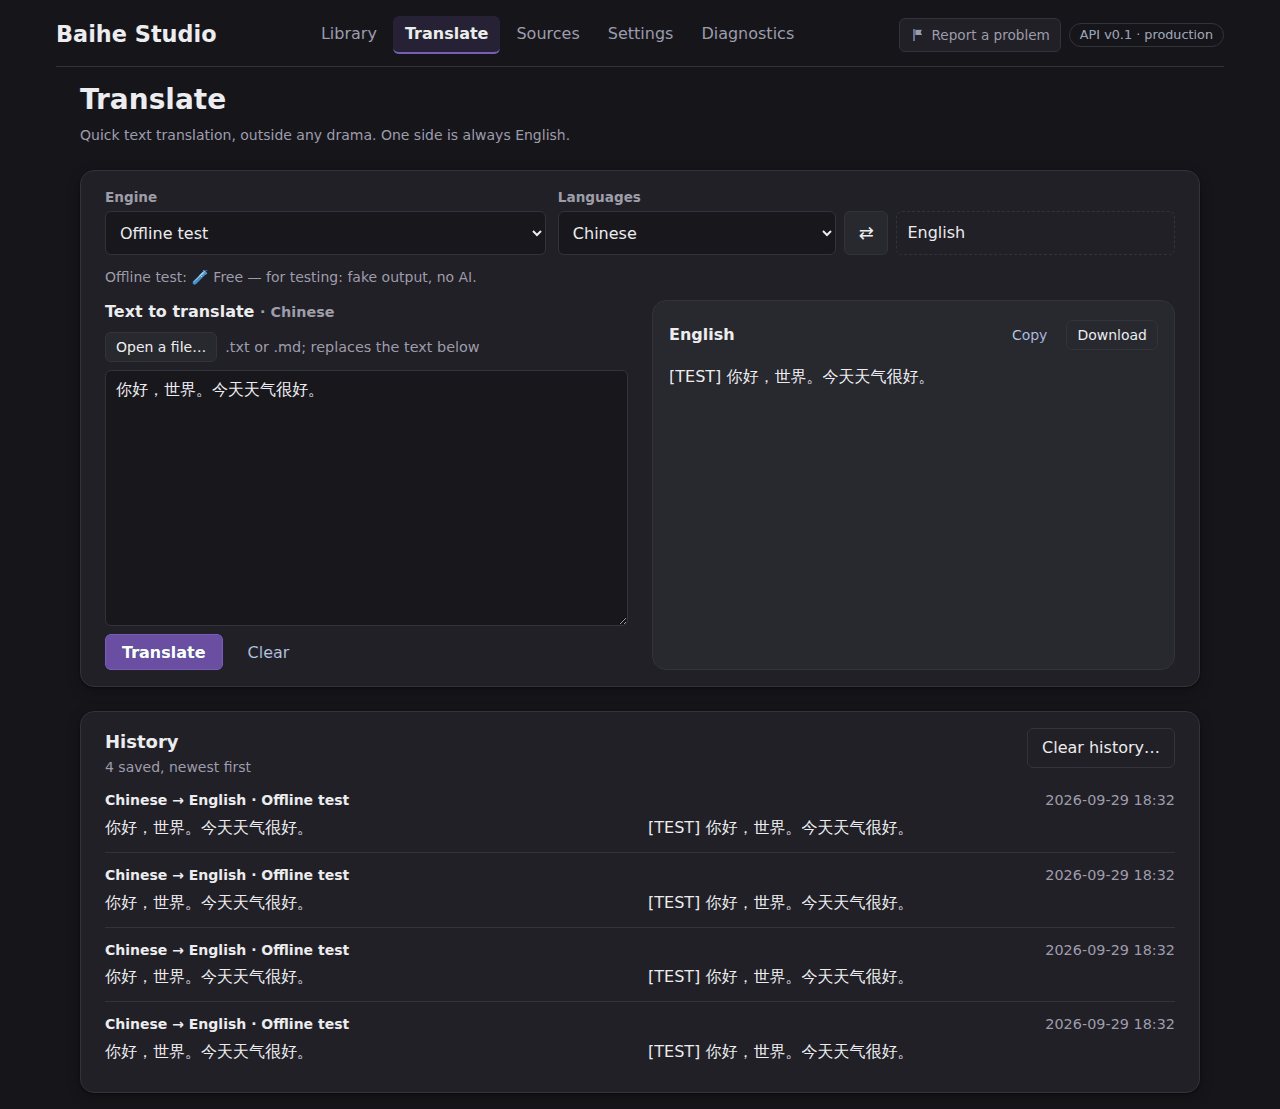
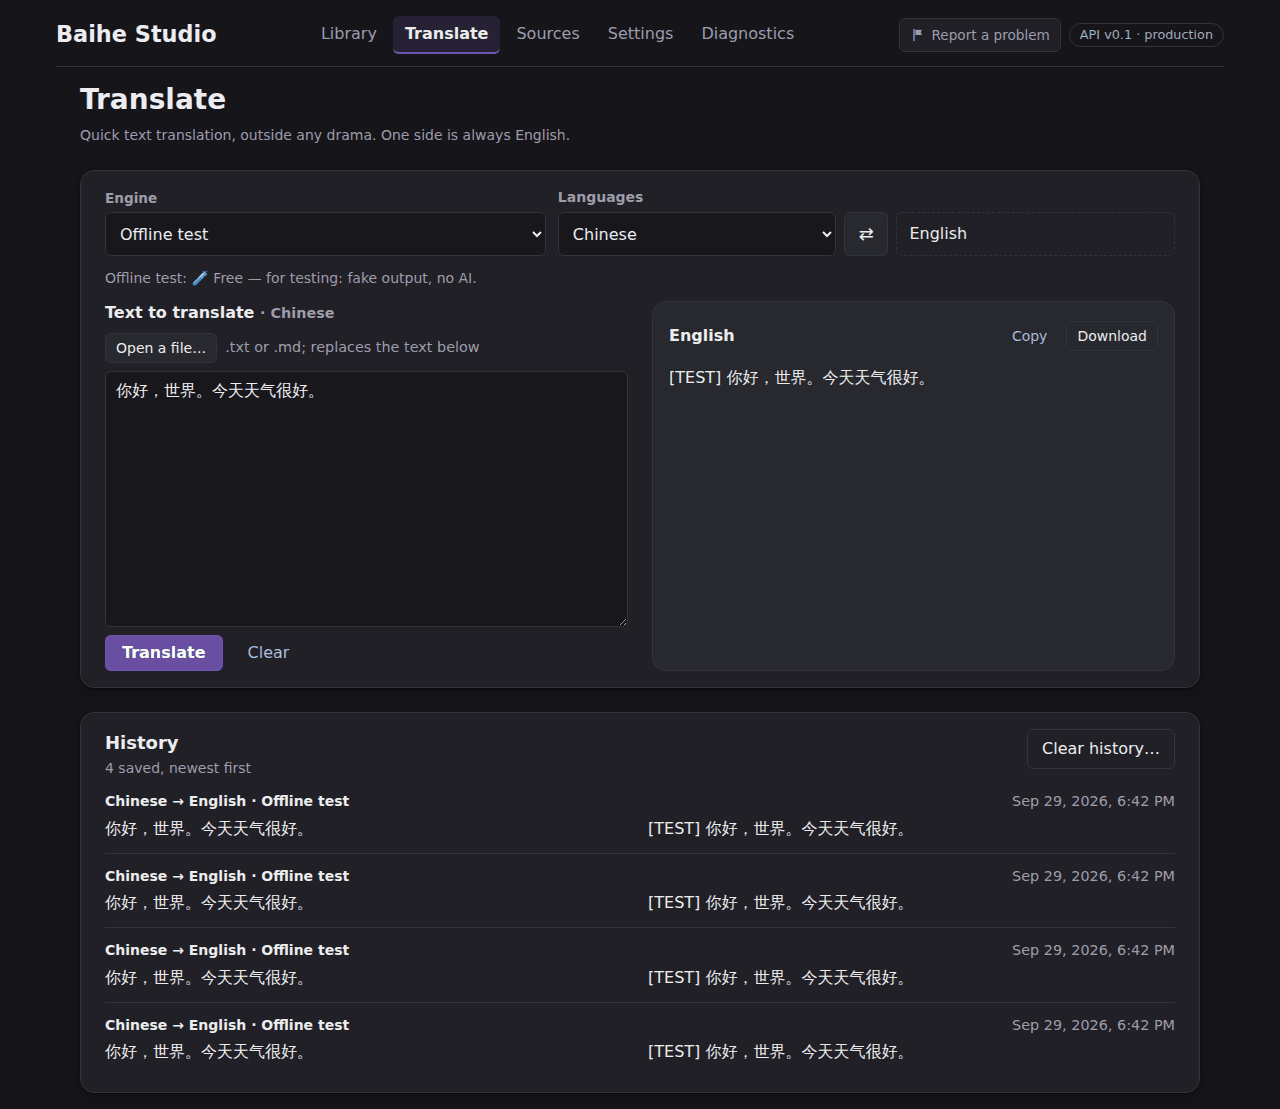
Translate page: review fixes (local history times, honest count past 50, dead CSS, kit tokens, copy live region)
Claude-Session: https://claude.ai/code/session_017Wz1nC44vFRBaWhjdfFhYz

diff --git a/frontend/src/pages/Translate.tsx b/frontend/src/pages/Translate.tsx
@@ -19,8 +19,10 @@ import { usePcOnly } from '../hooks/usePcOnly'
 import { usePersistedState } from '../hooks/usePersistedState'
 import { DownloadResultButton, OpenFileField } from './TranslateFileControls'
 import {
+  HISTORY_LIMIT,
   HISTORY_PREVIEW,
   engineOptionLabel,
+  historyCount,
   historyLabel,
   historyTime,
   isDirection,
@@ -55,7 +57,7 @@ export default function TranslatePage() {
   const [clearError, setClearError] = useState<unknown>(null)
   const pc = usePcOnly()
 
-  const refreshHistory = useCallback(() => translateApi.history().then(setHistory, setError), [])
+  const refreshHistory = useCallback(() => translateApi.history(HISTORY_LIMIT).then(setHistory, setError), [])
 
   useEffect(() => {
     translateApi.engines().then(setEngines, setError)
@@ -271,11 +273,9 @@ export default function TranslatePage() {
                   {loading ? 'Translating…' : 'The translation appears here.'}
                 </p>
               )}
-              {copied === 'failed' && (
-                <p className="translate-warning" role="status">
-                  Couldn't copy. Select the text and copy it instead.
-                </p>
-              )}
+              <p className={copied === 'failed' ? 'translate-warning' : 'visually-hidden'} role="status">
+                {copied === 'ok' ? 'Copied to the clipboard.' : copied === 'failed' ? "Couldn't copy. Select the text and copy it instead." : ''}
+              </p>
             </div>
           </div>
         </form>
@@ -284,7 +284,7 @@ export default function TranslatePage() {
       <Card
         className="translate-history-card"
         title="History"
-        meta={history.length > 0 ? `${history.length} saved, newest first` : undefined}
+        meta={history.length > 0 ? historyCount(history.length, HISTORY_LIMIT) : undefined}
         actions={
           history.length > 0 &&
           (pc === 'remote' ? (
@@ -328,7 +328,7 @@ export default function TranslatePage() {
                   aria-expanded={showAll}
                   onClick={() => setShowAll(!showAll)}
                 >
-                  {showAll ? 'Show fewer' : `Show all (${history.length})`}
+                  {showAll ? 'Show fewer' : `Show ${history.length >= HISTORY_LIMIT ? 'last' : 'all'} ${history.length}`}
                 </button>
               </div>
             )}

diff --git a/frontend/src/pages/translatePage.ts b/frontend/src/pages/translatePage.ts
@@ -7,8 +7,9 @@ import { NON_ENGLISH_LANGUAGES, engineShortName, usableEngines } from '../api/tr
 import { humanize } from '../components/labels'
 import type { TranslateDirection, TranslateEngine, TranslateHistoryEntry } from '../types/translate'
 
-/** History rows shown before "Show all". */
+/** History rows shown before "Show all", and how many are fetched. */
 export const HISTORY_PREVIEW = 5
+export const HISTORY_LIMIT = 50
 
 /** Picker text: the short name, plus "(no key)" when the engine can't run yet. */
 export function engineOptionLabel(engine: Pick<TranslateEngine, 'name' | 'key_configured'>): string {
@@ -55,9 +56,21 @@ export function historyLabel(h: Pick<TranslateHistoryEntry, 'source_language' | 
   return `${src} → ${tgt} · ${engineShortName({ name: h.engine })}`
 }
 
-/** "2026-09-29T18:31:05" or "2026-09-29 18:31:05" -> "2026-09-29 18:31". */
-export function historyTime(createdAt: string): string {
-  return createdAt.replace('T', ' ').slice(0, 16)
+/**
+ * The API stores naive UTC timestamps (datetime.utcnow().isoformat()), so a
+ * value without a zone is read as UTC and shown in the viewer's local time.
+ * Unparseable values are shown as they came.
+ */
+export function historyTime(createdAt: string, locale?: string): string {
+  const iso = createdAt.trim().replace(' ', 'T')
+  const d = new Date(/[zZ]|[+-]\d\d:?\d\d$/.test(iso) ? iso : `${iso}Z`)
+  if (Number.isNaN(d.getTime())) return createdAt
+  return d.toLocaleString(locale, { dateStyle: 'medium', timeStyle: 'short' })
+}
+
+/** "50 saved" is only true below the fetch limit; at the limit say "last N". */
+export function historyCount(count: number, limit: number): string {
+  return count >= limit ? `Last ${count}, newest first` : `${count} saved, newest first`
 }
 
 /** The rows to render: the first HISTORY_PREVIEW unless "Show all" is on. */

diff --git a/frontend/src/pages/translate.css b/frontend/src/pages/translate.css
@@ -10,15 +10,15 @@
 .translate-toolbar { display: grid; grid-template-columns: repeat(2, minmax(0, 1fr)); gap: var(--space-3); align-items: end; }
 .translate-toolbar .translate-langs { grid-column: 1 / -1; }
 .translate-toolbar:not(.has-model) .translate-engine { grid-column: 1 / -1; }
-.translate-langs { display: grid; gap: var(--space-1); min-width: 0; font-size: var(--font-sm); color: var(--muted); }
+.translate-langs { display: grid; gap: var(--space-1); min-width: 0; font-size: var(--text-sm); color: var(--muted); }
 .translate-langs > span { font-weight: 600; }
 .translate-lang-row { display: grid; grid-template-columns: minmax(0, 1fr) auto minmax(0, 1fr); gap: var(--space-2); align-items: center; }
-.translate-lang-row select { color: var(--text); font-size: var(--font-md); }
+.translate-lang-row select { color: var(--text); font-size: var(--text-md); }
 .translate-toolbar select, .translate-lang-fixed { min-height: 44px; }
 .translate-lang-fixed {
-  display: flex; align-items: center; padding: 7px 10px;
+  display: flex; align-items: center; padding: var(--space-2) var(--space-3);
   border: 1px dashed var(--border); border-radius: var(--radius-sm);
-  color: var(--text); font-size: var(--font-md);
+  color: var(--text); font-size: var(--text-md);
 }
 .translate-swap { min-width: 44px; min-height: 44px; padding: 0 var(--space-3); font-size: var(--text-lg); line-height: 1; }
 

diff --git a/frontend/src/index.css b/frontend/src/index.css
@@ -226,16 +226,7 @@ tbody tr:last-child td { border-bottom: none; }
 tbody tr:hover, tbody tr.selected { background: color-mix(in srgb, var(--accent) 12%, transparent); }
 .library-grid tbody tr { cursor: pointer; }
 
-/* ---- details / engine list ---- */
-.engine-details { margin: 0 0 var(--space-3); border: 1px solid var(--border); border-radius: var(--radius-sm); padding: var(--space-2) var(--space-3); }
-.engine-details summary { cursor: pointer; color: var(--muted); font-size: var(--font-sm); font-weight: 600; }
-.engine-details ul { list-style: none; margin: var(--space-2) 0 0; padding: 0; display: grid; gap: var(--space-2); }
-.engine-head { display: flex; gap: var(--space-2); align-items: center; flex-wrap: wrap; }
-.engine-details .muted { font-size: var(--font-sm); }
-
 .result { white-space: pre-wrap; margin: 0; padding: var(--space-3); border: 1px solid var(--border); border-radius: var(--radius-sm); background: var(--field-bg); font: inherit; }
-.history-list { list-style: none; padding: 0 !important; display: grid; gap: var(--space-2); }
-.history-list li { padding: var(--space-2) var(--space-3) !important; border: 1px solid var(--border); border-radius: var(--radius-sm); }
 
 dl { margin: 0; }
 dl > div { display: grid; grid-template-columns: minmax(6rem, 9rem) minmax(0, 1fr); gap: var(--space-2); padding: var(--space-1) 0; }

diff --git a/frontend/src/pages/translatePage.test.ts b/frontend/src/pages/translatePage.test.ts
@@ -4,6 +4,7 @@ import type { TranslateEngine } from '../types/translate'
 import {
   HISTORY_PREVIEW,
   engineOptionLabel,
+  historyCount,
   historyLabel,
   historyTime,
   isDirection,
@@ -78,9 +79,17 @@ describe('history', () => {
     expect(historyLabel({ source_language: 'pt_br', target_language: '', engine: 'new_engine' })).not.toContain('_')
   })
 
-  it('shows the time to the minute without the ISO T', () => {
-    expect(historyTime('2026-09-29T18:31:05.123')).toBe('2026-09-29 18:31')
-    expect(historyTime('2026-09-29 12:00:00')).toBe('2026-09-29 12:00')
+  it('reads zone-less times as UTC and shows local time', () => {
+    const utc = new Date(Date.UTC(2026, 8, 29, 18, 31)).toLocaleString('en-GB', { dateStyle: 'medium', timeStyle: 'short' })
+    expect(historyTime('2026-09-29T18:31:05.123', 'en-GB')).toBe(utc)
+    expect(historyTime('2026-09-29 18:31:05', 'en-GB')).toBe(utc)
+    expect(historyTime('2026-09-29T18:31:05Z', 'en-GB')).toBe(utc)
+    expect(historyTime('not a date')).toBe('not a date')
+  })
+
+  it('does not claim a total past the fetch limit', () => {
+    expect(historyCount(3, 50)).toBe('3 saved, newest first')
+    expect(historyCount(50, 50)).toBe('Last 50, newest first')
   })
 
   it('shows the first few until Show all', () => {

diff --git a/frontend/src/api/translate.ts b/frontend/src/api/translate.ts
@@ -26,8 +26,8 @@ export function languagePair(
     : { source_language: 'en', target_language: other }
 }
 
-// Engines the picker offers. A missing key is a Settings problem, so those
-// stay out; the server still answers 503 if the list was stale.
+// Engines that can run now (key configured). The Translate page lists these
+// first and marks the rest "(no key)"; the server answers 503 for those.
 export function usableEngines(engines: TranslateEngine[]): TranslateEngine[] {
   return engines.filter((e) => e.key_configured)
 }
@@ -53,7 +53,7 @@ export function engineShortName(engine: Pick<TranslateEngine, 'name'>): string {
   return words ? words.charAt(0).toUpperCase() + words.slice(1) : engine.name
 }
 
-// One-line description for the details list: the first sentence of the text
+// One-line description of the chosen engine: the first sentence of the text
 // before the first " -- ", capped so a long note can't blow up the layout.
 export function engineSummary(label: string): string {
   const first = label.split(' -- ')[0].trim()

diff --git a/frontend/e2e/translate.spec.ts b/frontend/e2e/translate.spec.ts
@@ -82,7 +82,7 @@ test('history shows the last 5 until Show all', async ({ page }) => {
   const list = page.getByTestId('translate-history').locator('li')
   await expect(list).toHaveCount(5)
   await expect(list.first()).toContainText('Japanese → English · DeepSeek')
-  await page.getByRole('button', { name: 'Show all (7)' }).click()
+  await page.getByRole('button', { name: 'Show all 7' }).click()
   await expect(list).toHaveCount(7)
   await page.getByRole('button', { name: 'Show fewer' }).click()
   await expect(list).toHaveCount(5)
